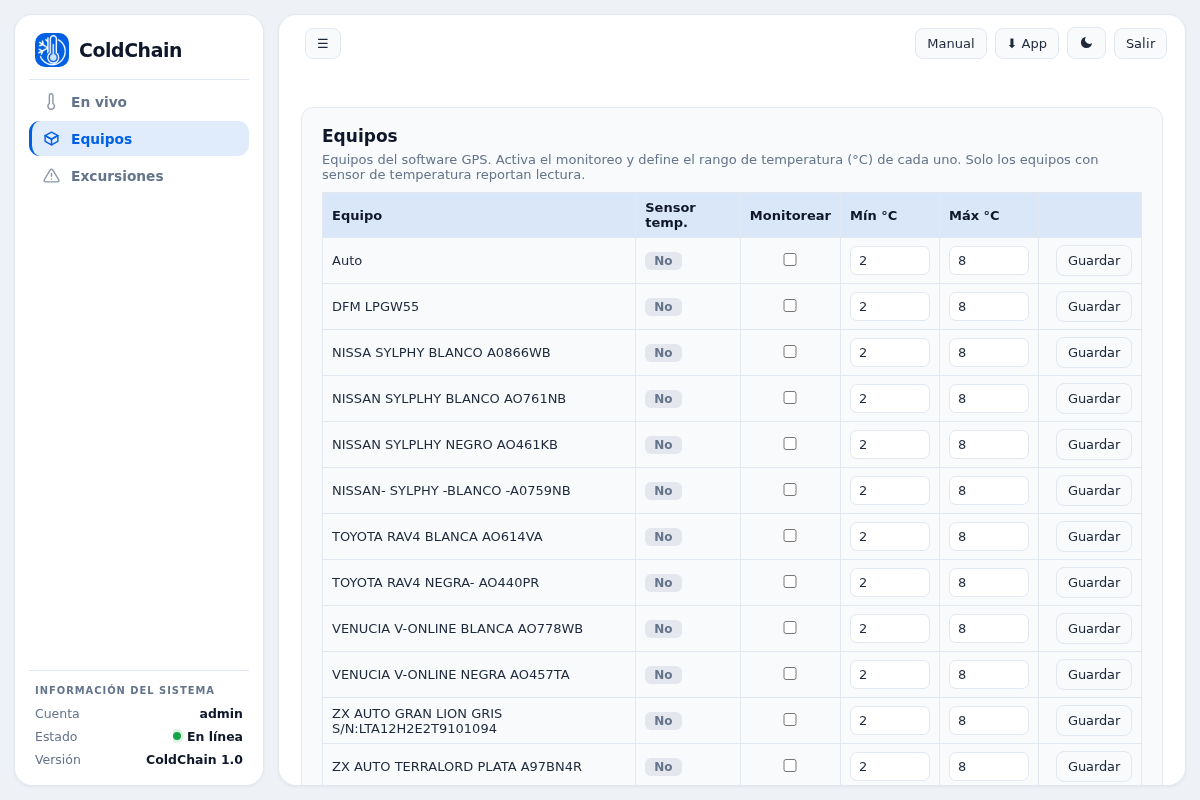
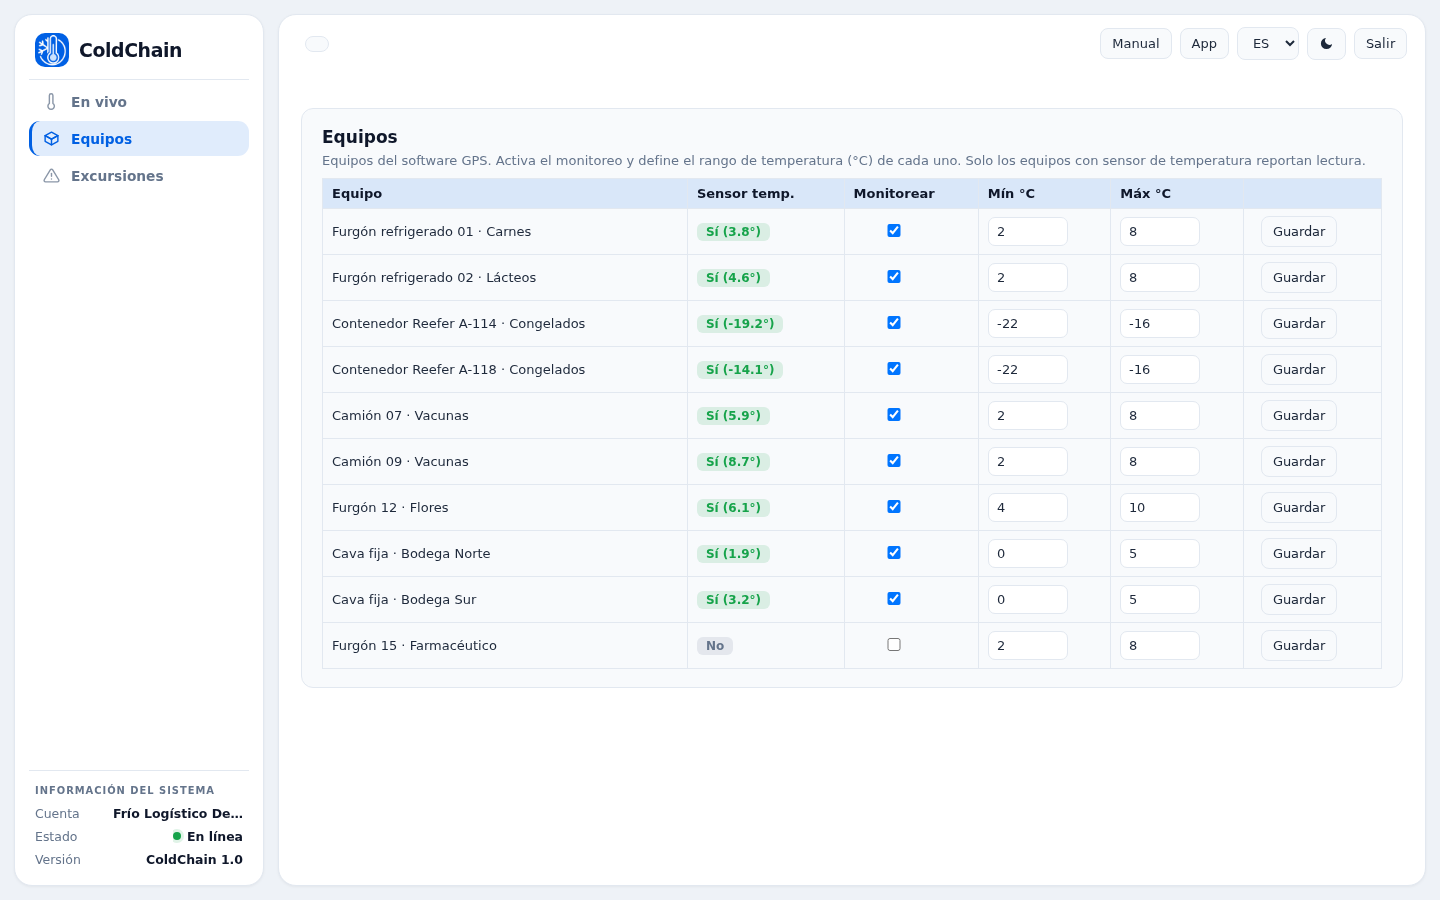
Apps: rehacer con datos de demostracion las capturas vacias de ColdChain y AssetTrack
ColdChain mostraba una sola fila ("Reefer 01 - Demo") y su pantalla de Equipos
llevaba placas de un cliente real. AssetTrack mostraba "Sin senal" en todo y
unidades de prueba llamadas "prueba123", "king ble" y "dc 600 cam".

Ahora: ColdChain con 10 equipos refrigerados, temperaturas, rangos y estados
dentro/fuera de rango, mas una pantalla nueva de Excursiones (6 registros).
AssetTrack con 12 activos (remolques, contenedores, maquinaria), enganche al
tractocamion, responsables y ubicacion, mas una pantalla de Alertas.

Las capturas se hicieron alimentando la pantalla desde el navegador con datos
inventados: NO se escribio nada en las bases de datos de las aplicaciones.

Se anadieron 4 claves ES/PT/EN para las 2 pestanas nuevas y se subio el sello
de cache de i18n.js en las 30 paginas.

Verificado en el sitio en vivo: coldchain 3 pestanas, assettrack 2, notice 4,
en espanol e ingles, 0 imagenes rotas, 0 claves crudas, 0 errores JS.

diff --git a/assets/js/i18n.js b/assets/js/i18n.js
@@ -4,6 +4,10 @@
 
 const translations = {
   es: {
+    sc_at_al_t:'Alertas',
+    sc_at_al_d:'Robo, batería baja, inactividad y equipos sin señal',
+    sc_cc_exc_t:'Excursiones',
+    sc_cc_exc_d:'Registro de cuándo la temperatura salió del rango',
     tab_index:'Software de rastreo GPS en marca blanca | Appogio',
     tab_contacto:'Solicitar demo del software de rastreo GPS | Appogio',
     tab_assettrack:'Rastreo de remolques y contenedores GPS | AssetTrack',
@@ -1607,6 +1611,10 @@ const translations = {
   },
 
   pt: {
+    sc_at_al_t:'Alertas',
+    sc_at_al_d:'Roubo, bateria fraca, inatividade e equipamentos sem sinal',
+    sc_cc_exc_t:'Excursões',
+    sc_cc_exc_d:'Registro de quando a temperatura saiu da faixa',
     tab_index:'Software de rastreamento GPS em marca branca | Appogio',
     tab_contacto:'Solicitar demonstração do software de rastreamento GPS | Appogio',
     tab_assettrack:'Rastreamento de reboques e contêineres GPS | AssetTrack',
@@ -3210,6 +3218,10 @@ const translations = {
   },
 
   en: {
+    sc_at_al_t:'Alerts',
+    sc_at_al_d:'Theft, low battery, inactivity and units with no signal',
+    sc_cc_exc_t:'Excursions',
+    sc_cc_exc_d:'Log of when temperature went out of range',
     tab_index:'White-label GPS tracking software | Appogio',
     tab_contacto:'Request a demo of the GPS tracking software | Appogio',
     tab_assettrack:'Trailer and container GPS tracking | AssetTrack',

diff --git a/apps/coldchain.html b/apps/coldchain.html
@@ -259,6 +259,7 @@
       <div class="showcase-list">
         <button class="sc-feat active" data-img="../assets/images/coldchain-vivo.png"><strong data-i18n="wb_169">Monitoreo en vivo</strong><span data-i18n="wb_175">Temperatura actual y estado por equipo</span></button>
         <button class="sc-feat" data-img="../assets/images/coldchain-equipos.png"><strong data-i18n="wc_16">Equipos</strong><span data-i18n="wb_176">Activa el monitoreo y define el rango °C</span></button>
+            <button class="sc-feat" data-img="../assets/images/coldchain-excursiones.png"><strong data-i18n="sc_cc_exc_t">Excursiones</strong><span data-i18n="sc_cc_exc_d">Registro de cuándo la temperatura salió del rango</span></button>
       </div>
     </div>
   </div>
@@ -327,7 +328,7 @@
     <span class="fi fi-es" id="float-flag"></span>
   </button>
 </div>
-<script src="../assets/js/i18n.js?v=1785345463"></script>
+<script src="../assets/js/i18n.js?v=1785353414"></script>
 <script src="../assets/js/main.js"></script>
 </body>
 </html>

diff --git a/apps/assettrack.html b/apps/assettrack.html
@@ -258,6 +258,7 @@
       <div class="showcase-img"><img id="sc-img" src="../assets/images/assettrack-activos.png" alt="AssetTrack"></div>
       <div class="showcase-list">
         <button class="sc-feat active" data-img="../assets/images/assettrack-activos.png"><strong data-i18n="wc_14">Activos</strong><span><span data-i18n="ax_50">Posición y estado de cada activo en tiempo real</span></span></button>
+            <button class="sc-feat" data-img="../assets/images/assettrack-alertas.png"><strong data-i18n="sc_at_al_t">Alertas</strong><span data-i18n="sc_at_al_d">Robo, batería baja, inactividad y equipos sin señal</span></button>
       </div>
     </div>
   </div>
@@ -326,7 +327,7 @@
     <span class="fi fi-es" id="float-flag"></span>
   </button>
 </div>
-<script src="../assets/js/i18n.js?v=1785345463"></script>
+<script src="../assets/js/i18n.js?v=1785353414"></script>
 <script src="../assets/js/main.js"></script>
 </body>
 </html>

diff --git a/apps/pesv.html b/apps/pesv.html
@@ -306,7 +306,7 @@
     <span class="fi fi-es" id="float-flag"></span>
   </button>
 </div>
-<script src="../assets/js/i18n.js?v=1785345463"></script>
+<script src="../assets/js/i18n.js?v=1785353414"></script>
 <script src="../assets/js/main.js"></script>
 <script>(function(){var bs=document.querySelectorAll(".sc-feat"),im=document.getElementById("sc-img");bs.forEach(function(b){b.addEventListener("click",function(){bs.forEach(function(x){x.classList.remove("active")});b.classList.add("active");im.src=b.getAttribute("data-img");});});})();</script>
 </body>

diff --git a/apps/satlink.html b/apps/satlink.html
@@ -306,7 +306,7 @@
     <span class="fi fi-es" id="float-flag"></span>
   </button>
 </div>
-<script src="../assets/js/i18n.js?v=1785345463"></script>
+<script src="../assets/js/i18n.js?v=1785353414"></script>
 <script src="../assets/js/main.js"></script>
 <script>(function(){var bs=document.querySelectorAll(".sc-feat"),im=document.getElementById("sc-img");bs.forEach(function(b){b.addEventListener("click",function(){bs.forEach(function(x){x.classList.remove("active")});b.classList.add("active");im.src=b.getAttribute("data-img");});});})();</script>
 </body>

diff --git a/apps/camfleet.html b/apps/camfleet.html
@@ -336,7 +336,7 @@
     <span class="fi fi-es" id="float-flag"></span>
   </button>
 </div>
-<script src="../assets/js/i18n.js?v=1785345463"></script>
+<script src="../assets/js/i18n.js?v=1785353414"></script>
 <script src="../assets/js/main.js"></script>
 </body>
 </html>

diff --git a/apps/developers.html b/apps/developers.html
@@ -305,7 +305,7 @@
     <span class="fi fi-es" id="float-flag"></span>
   </button>
 </div>
-<script src="../assets/js/i18n.js?v=1785345463"></script>
+<script src="../assets/js/i18n.js?v=1785353414"></script>
 <script src="../assets/js/main.js"></script>
 </body>
 </html>

diff --git a/apps/driveiq.html b/apps/driveiq.html
@@ -334,7 +334,7 @@
     <span class="fi fi-es" id="float-flag"></span>
   </button>
 </div>
-<script src="../assets/js/i18n.js?v=1785345463"></script>
+<script src="../assets/js/i18n.js?v=1785353414"></script>
 <script src="../assets/js/main.js"></script>
 </body>
 </html>

diff --git a/apps/fleetcare.html b/apps/fleetcare.html
@@ -305,7 +305,7 @@
     <span class="fi fi-es" id="float-flag"></span>
   </button>
 </div>
-<script src="../assets/js/i18n.js?v=1785345463"></script>
+<script src="../assets/js/i18n.js?v=1785353414"></script>
 <script src="../assets/js/main.js"></script>
 </body>
 </html>

diff --git a/apps/fleetops.html b/apps/fleetops.html
@@ -305,7 +305,7 @@
     <span class="fi fi-es" id="float-flag"></span>
   </button>
 </div>
-<script src="../assets/js/i18n.js?v=1785345463"></script>
+<script src="../assets/js/i18n.js?v=1785353414"></script>
 <script src="../assets/js/main.js"></script>
 </body>
 </html>

diff --git a/apps/fleetsync.html b/apps/fleetsync.html
@@ -305,7 +305,7 @@
     <span class="fi fi-es" id="float-flag"></span>
   </button>
 </div>
-<script src="../assets/js/i18n.js?v=1785345463"></script>
+<script src="../assets/js/i18n.js?v=1785353414"></script>
 <script src="../assets/js/main.js"></script>
 </body>
 </html>

diff --git a/apps/fleetwatch.html b/apps/fleetwatch.html
@@ -158,7 +158,7 @@
     <span class="fi fi-es" id="float-flag"></span>
   </button>
 </div>
-<script src="../assets/js/i18n.js?v=1785345463"></script>
+<script src="../assets/js/i18n.js?v=1785353414"></script>
 <script src="../assets/js/main.js"></script>
 </body>
 </html>
